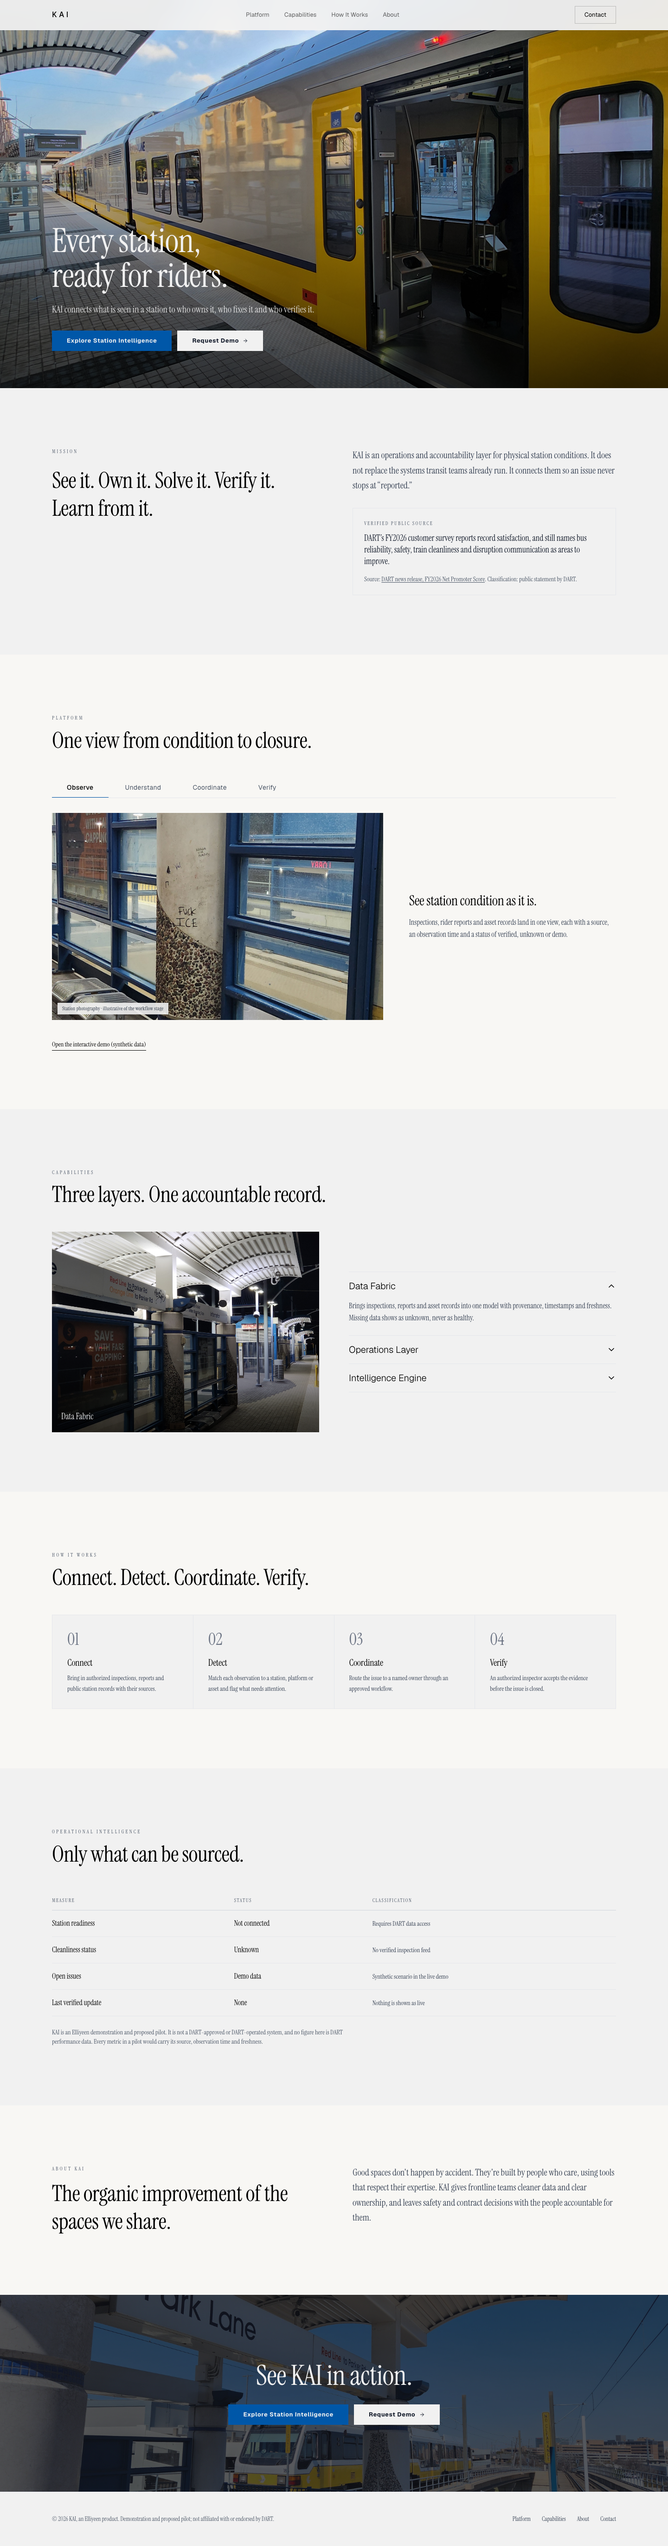
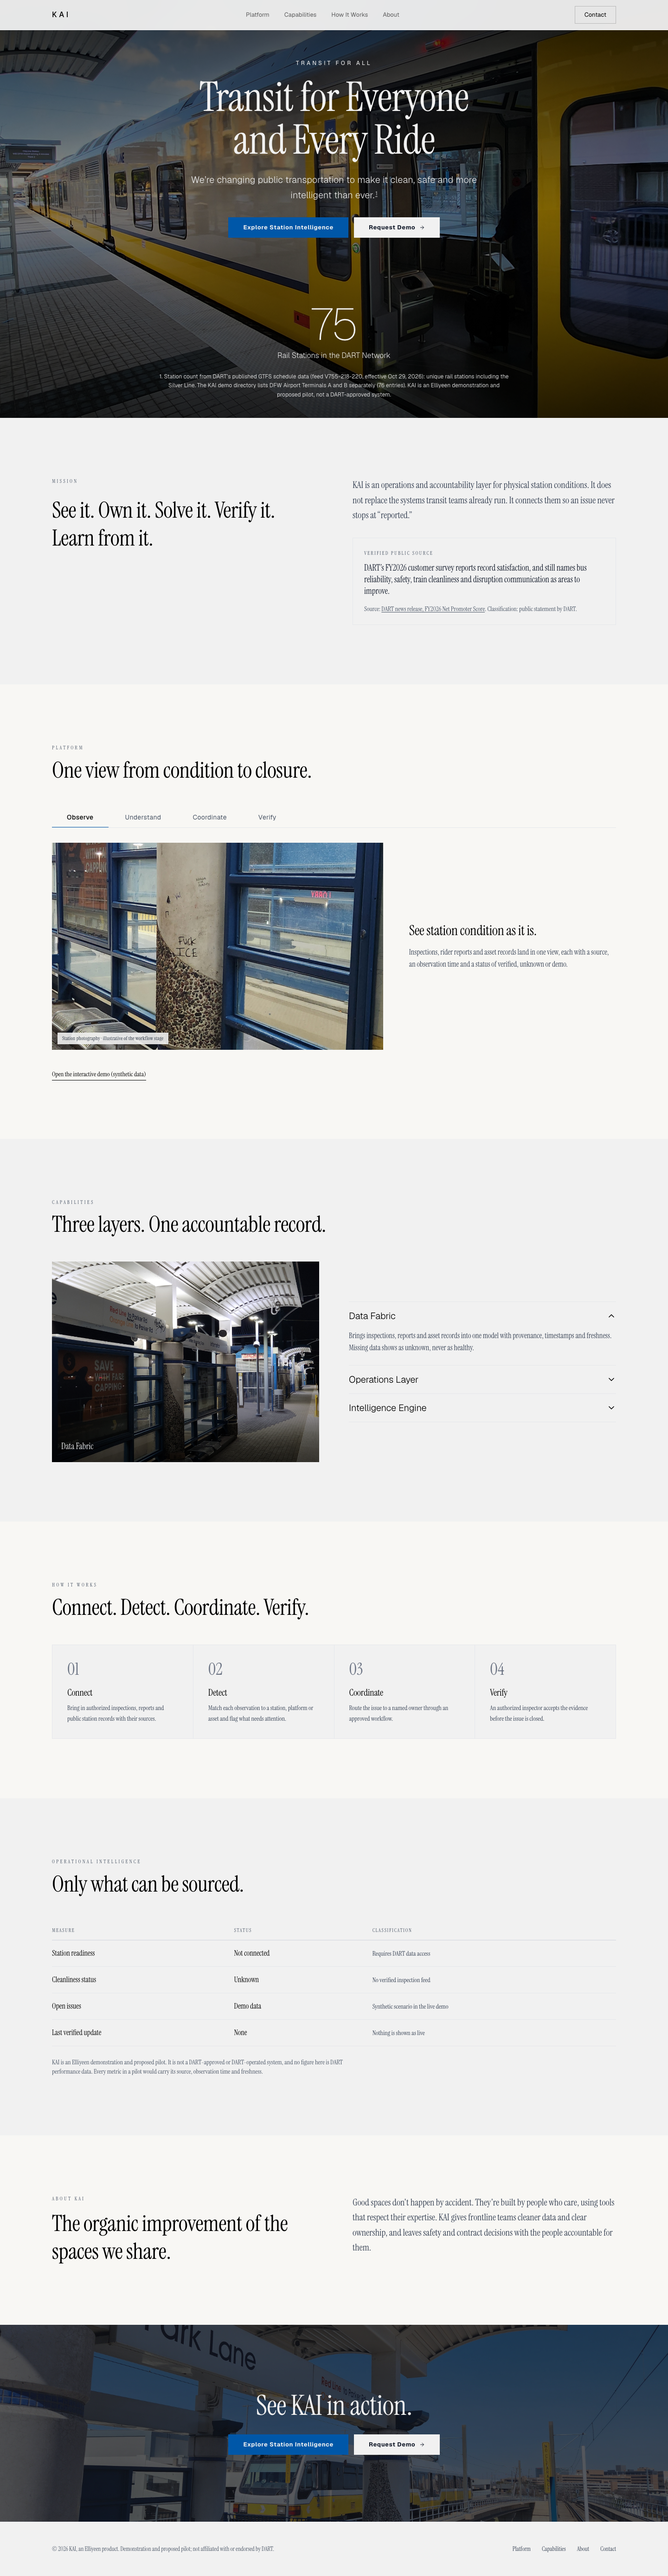
Landing hero: Robotaxi-style layout with sourced station-count metric

diff --git a/src/components/landing/sections.tsx b/src/components/landing/sections.tsx
@@ -21,19 +21,29 @@ export function CTAButtons({ dark = false }: { dark?: boolean }) {
 
 export function CinematicHero() {
   return (
-    <section className="relative h-[70vh] sm:h-[80vh] lg:h-[calc(100vh-64px)] min-h-[480px] flex items-end overflow-hidden">
+    <section className="relative min-h-[640px] h-[100svh] max-h-[1000px] flex flex-col overflow-hidden text-white font-sans">
       <Image src={img(IMAGES.hero.file)} alt={IMAGES.hero.alt} fill priority sizes="100vw" className="object-cover object-[62%_center]" />
-      <div className="absolute inset-0 bg-linear-to-t from-black/70 via-black/20 to-transparent" />
-      <div className="relative z-10 w-full max-w-7xl mx-auto px-6 lg:px-8 pb-14 sm:pb-20 text-white">
-        <h1 className="hero-animate text-[2.4rem] sm:text-6xl lg:text-7xl font-light leading-[1.05] tracking-[-0.03em] max-w-3xl mb-5">
-          Every station,<br />ready for riders.
+      <div className="absolute inset-0 bg-linear-to-b from-black/75 via-black/40 to-black/80" />
+
+      <div className="relative z-10 flex-1 flex flex-col items-center text-center px-6 pt-28 sm:pt-32">
+        <p className="hero-animate text-[11px] sm:text-xs font-medium tracking-[0.35em] uppercase text-white/90 mb-5">Transit for All</p>
+        <h1 className="hero-animate font-sans text-[2.5rem] sm:text-6xl lg:text-7xl xl:text-[5.5rem] font-light leading-[1.04] tracking-[-0.03em] max-w-4xl" style={{ animationDelay: "120ms", fontFamily: "var(--font-geist-sans), system-ui, sans-serif" }}>
+          Transit for Everyone<br />and Every Ride
         </h1>
-        <p className="hero-animate text-lg sm:text-xl font-light text-white/90 max-w-xl mb-8" style={{ animationDelay: "160ms" }}>
-          KAI connects what is seen in a station to who owns it, who fixes it and who verifies it.
+        <p className="hero-animate mt-6 text-base sm:text-xl font-light text-white/95 max-w-2xl leading-relaxed" style={{ animationDelay: "240ms" }}>
+          We&rsquo;re changing public transportation to make it clean, safe and more intelligent than ever.<sup className="text-[0.6em] ml-0.5"><a href="#hero-note" aria-label="Footnote 1" className="underline underline-offset-2">1</a></sup>
         </p>
-        <div className="hero-animate max-w-md sm:max-w-none" style={{ animationDelay: "280ms" }}>
-          <div className="sm:flex"><CTAButtons dark /></div>
+        <div className="hero-animate mt-8 w-full max-w-md sm:max-w-none" style={{ animationDelay: "340ms" }}>
+          <CTAButtons dark />
         </div>
+      </div>
+
+      <div className="relative z-10 px-6 pb-8 sm:pb-10 text-center">
+        <p className="hero-animate text-6xl sm:text-7xl lg:text-8xl font-thin tracking-[-0.03em] leading-none" style={{ animationDelay: "460ms" }} data-testid="hero-metric">75</p>
+        <p className="hero-animate mt-2 text-sm sm:text-base font-light text-white/95" style={{ animationDelay: "520ms" }}>Rail Stations in the DART Network</p>
+        <p id="hero-note" className="mt-6 mx-auto max-w-3xl text-[11px] sm:text-xs leading-relaxed text-white/85">
+          1. Station count from DART&rsquo;s published GTFS schedule data (feed V755-218-220, effective Oct 29, 2026): unique rail stations including the Silver Line. The KAI demo directory lists DFW Airport Terminals A and B separately (76 entries). KAI is an Elliyeen demonstration and proposed pilot, not a DART-approved system.
+        </p>
       </div>
     </section>
   );

diff --git a/tests/e2e/landing.spec.ts b/tests/e2e/landing.spec.ts
@@ -3,8 +3,9 @@ import { noHorizontalOverflow } from "./helpers";
 
 test("landing: no tournament content, CTAs reach the platform, tabs and accordion work", async ({ page }) => {
   await page.goto("");
-  await expect(page.getByRole("heading", { level: 1 })).toContainText("Every station");
+  await expect(page.getByRole("heading", { level: 1 })).toContainText("Transit for Everyone");
   expect(await page.locator("body").innerText()).not.toMatch(/fifa|world cup|at&t stadium|arlington/i);
+  await expect(page.getByTestId("hero-metric")).toHaveText("75");
   await page.getByRole("tab", { name: "Verify" }).click();
   await expect(page.getByRole("tab", { name: "Verify" })).toHaveAttribute("aria-selected", "true");
   await page.getByRole("tab", { name: "Verify" }).press("ArrowLeft");
